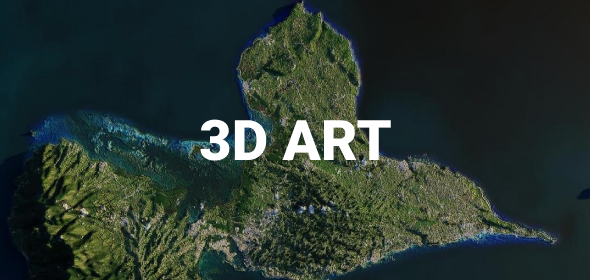
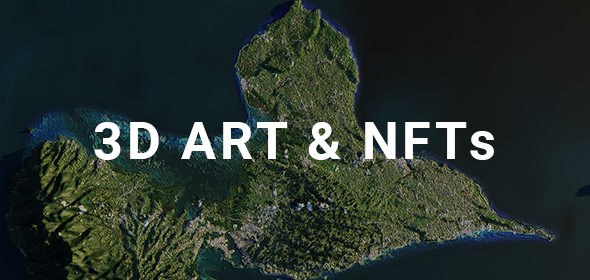
NFT update

Changed region(s): [[0.0305, 0.0, 0.9458, 1.0], [0.9763, 0.6571, 1.0, 0.6857]]

diff --git a/index.html b/index.html
@@ -930,8 +930,8 @@
 				<a href="https://www.hicetnunc.xyz/tz/tz1hbcn3CV8X5kUp4QBmcWCuRLAEJoDqctbp" target="_blank">
 					<div class="portfolio-item rounded shadow-dark">
 						<div class="details">
-							<span class="term">NFTs</span>
-							<h4 class="title">Access NFT Gallery</h4>
+							<span class="term">Crypto Art</span>
+							<h4 class="title">Browse Collection</h4>
 						</div>
 						<div class="thumb">
 							<img src="images/lab10.png" alt="Portfolio-title" />
